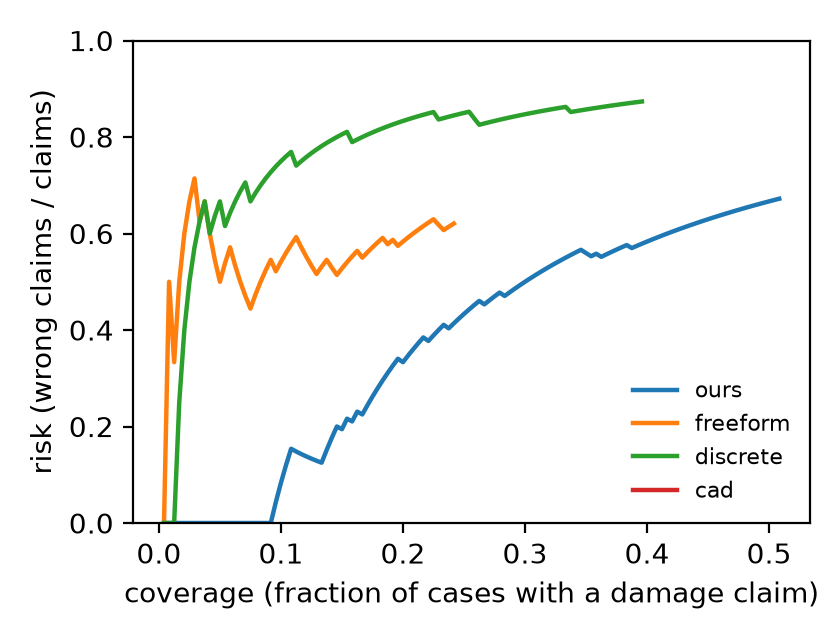
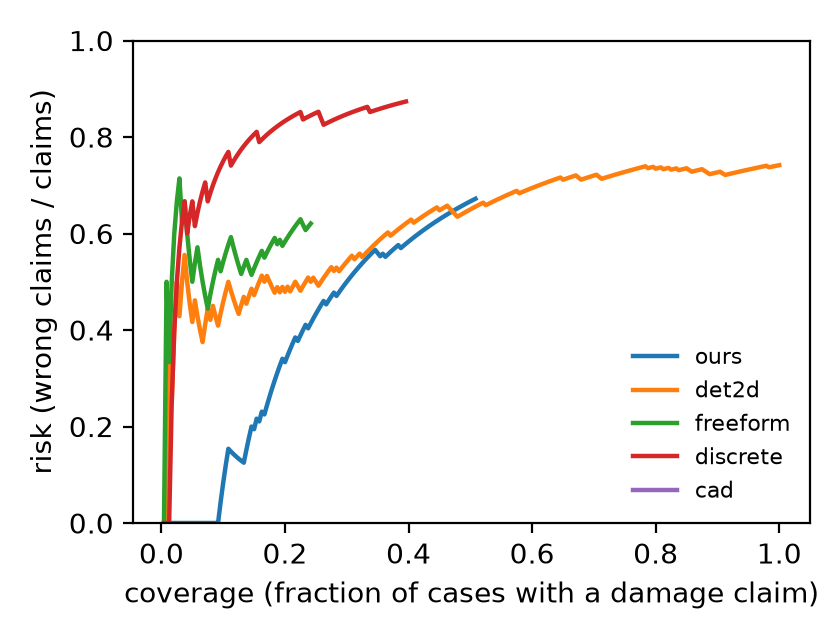
Auto-update results page (interim)

diff --git a/results.html b/results.html
@@ -6,7 +6,7 @@
 <link rel="stylesheet" href="styles.css">
 <style>main.res{max-width:1100px;margin:0 auto;padding:32px 16px 64px;display:grid;gap:18px} main.res small{color:var(--muted)}</style>
 </head><body><main class="res">
-<span class="eyebrow">BladeDelta results · 07 Oct 2026, 11:21 UTC</span>
+<span class="eyebrow">BladeDelta results · 07 Oct 2026, 12:17 UTC</span>
 <h1>Sealed-test results <span class="chip partial">updating automatically</span></h1>
 <p>This page is rebuilt automatically from the experiment outputs. The test set is 240 cases on 30 blade shapes never used
 for development; the method and its threshold were locked before any test image existed. Brackets are 95% intervals,
@@ -24,7 +24,7 @@ resampling whole blades. <a href="index.html">← Back to the main page</a></p>
 54%. Detected dents: median depth error 0.030 mm,
 centre error 0.13 mm.</p></div>
 <h2>All methods on the sealed test</h2>
-<div class="tablewrap"><table><thead><tr><th>Method</th><th>Separation (AUROC)</th><th>Visible dents found</th><th>…in the right place</th><th>False alarms</th><th>Hidden dents: abstains</th></tr></thead><tbody><tr><td><b>Ours (evidence-bounded)</b></td><td>0.82 <small>[0.71–0.90]</small></td><td>54% <small>[39–68]</small></td><td>54% <small>[39–68]</small></td><td>10% <small>[4–17]</small></td><td>85% <small>[77–91]</small></td></tr><tr><td><b>Ours without the evidence test</b></td><td>0.82 <small>[0.71–0.90]</small></td><td>84% <small>[68–95]</small></td><td>70% <small>[56–84]</small></td><td>32% <small>[21–43]</small></td><td>45% <small>[36–54]</small></td></tr><tr><td><b>Free-form field (per vertex)</b></td><td>0.63 <small>[0.54–0.70]</small></td><td>14% <small>[4–24]</small></td><td>11% <small>[3–20]</small></td><td>4% <small>[1–9]</small></td><td>99% <small>[97–100]</small></td></tr><tr><td><b>Discrete search (earlier method)</b></td><td>0.53 <small>[0.43–0.65]</small></td><td>5% <small>[0–13]</small></td><td>5% <small>[0–13]</small></td><td>6% <small>[1–10]</small></td><td>98% <small>[95–100]</small></td></tr><tr><td><b>Unchanged CAD (never reports)</b></td><td>0.50 <small>[0.50–0.50]</small></td><td>0% <small>[0–0]</small></td><td>0% <small>[0–0]</small></td><td>0% <small>[0–0]</small></td><td>100% <small>[100–100]</small></td></tr></tbody></table></div>
+<div class="tablewrap"><table><thead><tr><th>Method</th><th>Separation (AUROC)</th><th>Visible dents found</th><th>…in the right place</th><th>False alarms</th><th>Hidden dents: abstains</th></tr></thead><tbody><tr><td><b>Ours (evidence-bounded)</b></td><td>0.82 <small>[0.71–0.90]</small></td><td>54% <small>[39–68]</small></td><td>54% <small>[39–68]</small></td><td>10% <small>[4–17]</small></td><td>85% <small>[77–91]</small></td></tr><tr><td><b>Ours without the evidence test</b></td><td>0.82 <small>[0.71–0.90]</small></td><td>84% <small>[68–95]</small></td><td>70% <small>[56–84]</small></td><td>32% <small>[21–43]</small></td><td>45% <small>[36–54]</small></td></tr><tr><td><b>2D detector lifted to 3D</b></td><td>0.71 <small>[0.63–0.80]</small></td><td>24% <small>[12–40]</small></td><td>16% <small>[5–30]</small></td><td>4% <small>[1–9]</small></td><td>96% <small>[93–99]</small></td></tr><tr><td><b>Free-form field (per vertex)</b></td><td>0.63 <small>[0.54–0.70]</small></td><td>14% <small>[4–24]</small></td><td>11% <small>[3–20]</small></td><td>4% <small>[1–9]</small></td><td>99% <small>[97–100]</small></td></tr><tr><td><b>Discrete search (earlier method)</b></td><td>0.53 <small>[0.43–0.65]</small></td><td>5% <small>[0–13]</small></td><td>5% <small>[0–13]</small></td><td>6% <small>[1–10]</small></td><td>98% <small>[95–100]</small></td></tr><tr><td><b>Unchanged CAD (never reports)</b></td><td>0.50 <small>[0.50–0.50]</small></td><td>0% <small>[0–0]</small></td><td>0% <small>[0–0]</small></td><td>0% <small>[0–0]</small></td><td>100% <small>[100–100]</small></td></tr></tbody></table></div>
 <h3>Ours, by capture condition</h3><div class="tablewrap"><table><thead><tr><th>Capture</th><th>Visible dents found</th><th>False alarms</th></tr></thead><tbody><tr><td>nominal</td><td>33%</td><td>10%</td></tr><tr><td>camera</td><td>60%</td><td>14%</td></tr><tr><td>light</td><td>78%</td><td>0%</td></tr><tr><td>both</td><td>44%</td><td>15%</td></tr></tbody></table></div>
 <h2>Risk vs. coverage</h2><figure><img src="img/results/risk_coverage.png" alt="Risk-coverage curves" style="max-width:560px">
 <figcaption>Sweeping the evidence threshold: how many cases get a damage claim (coverage) and what fraction of those claims are wrong (risk). Lower and further right is better.</figcaption></figure>
